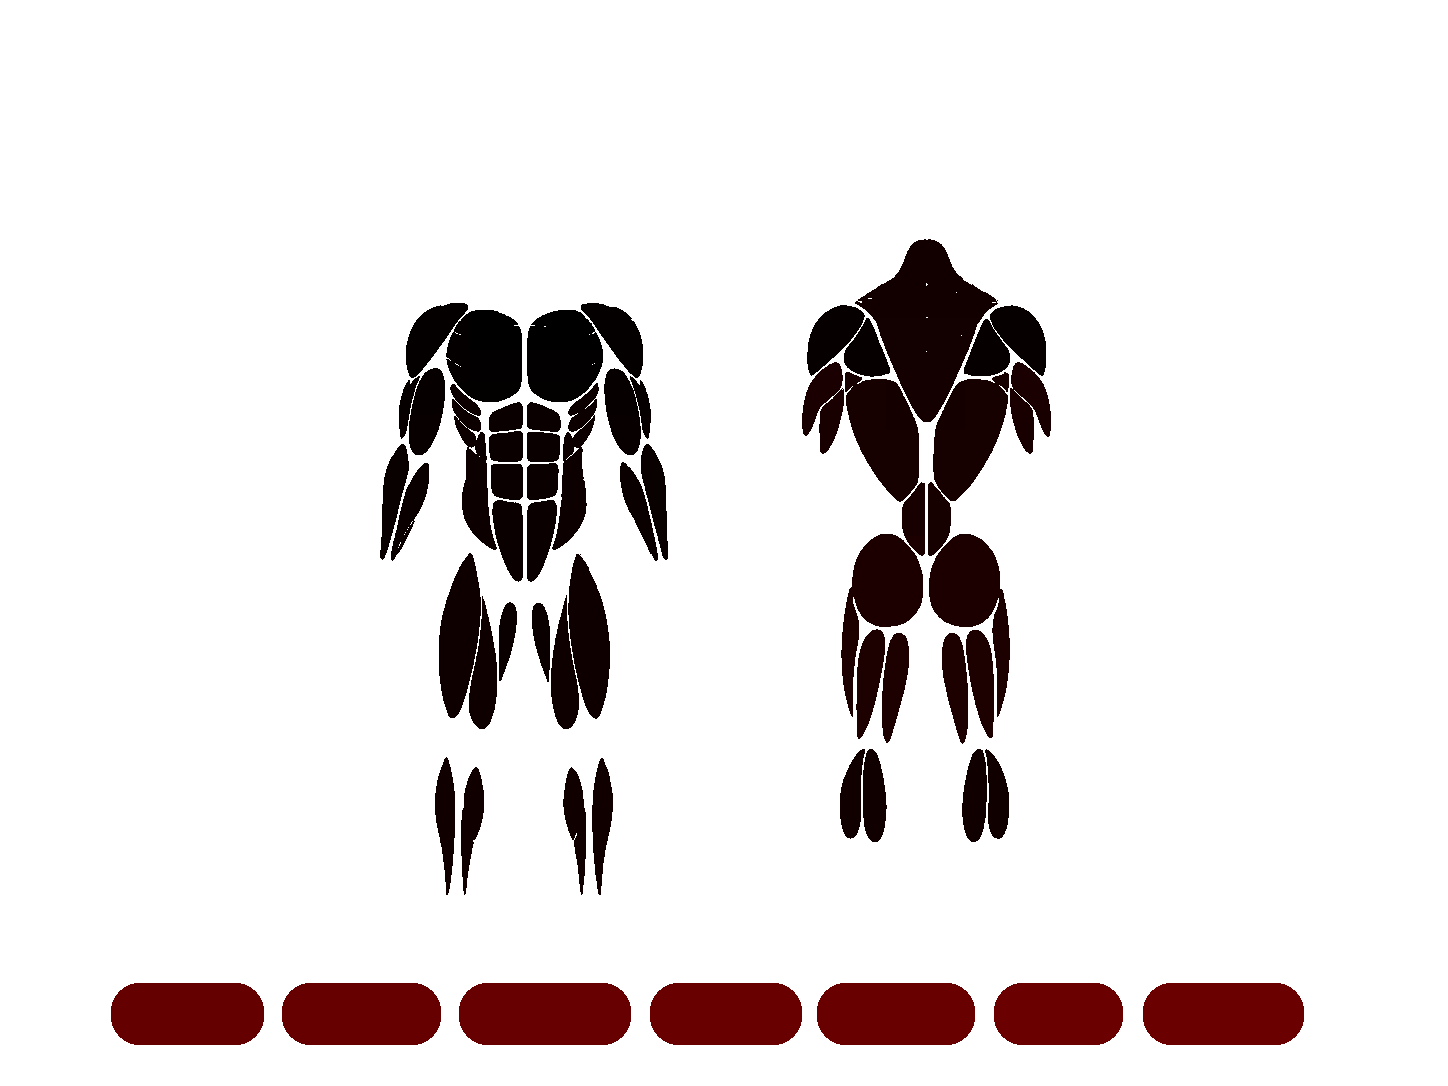
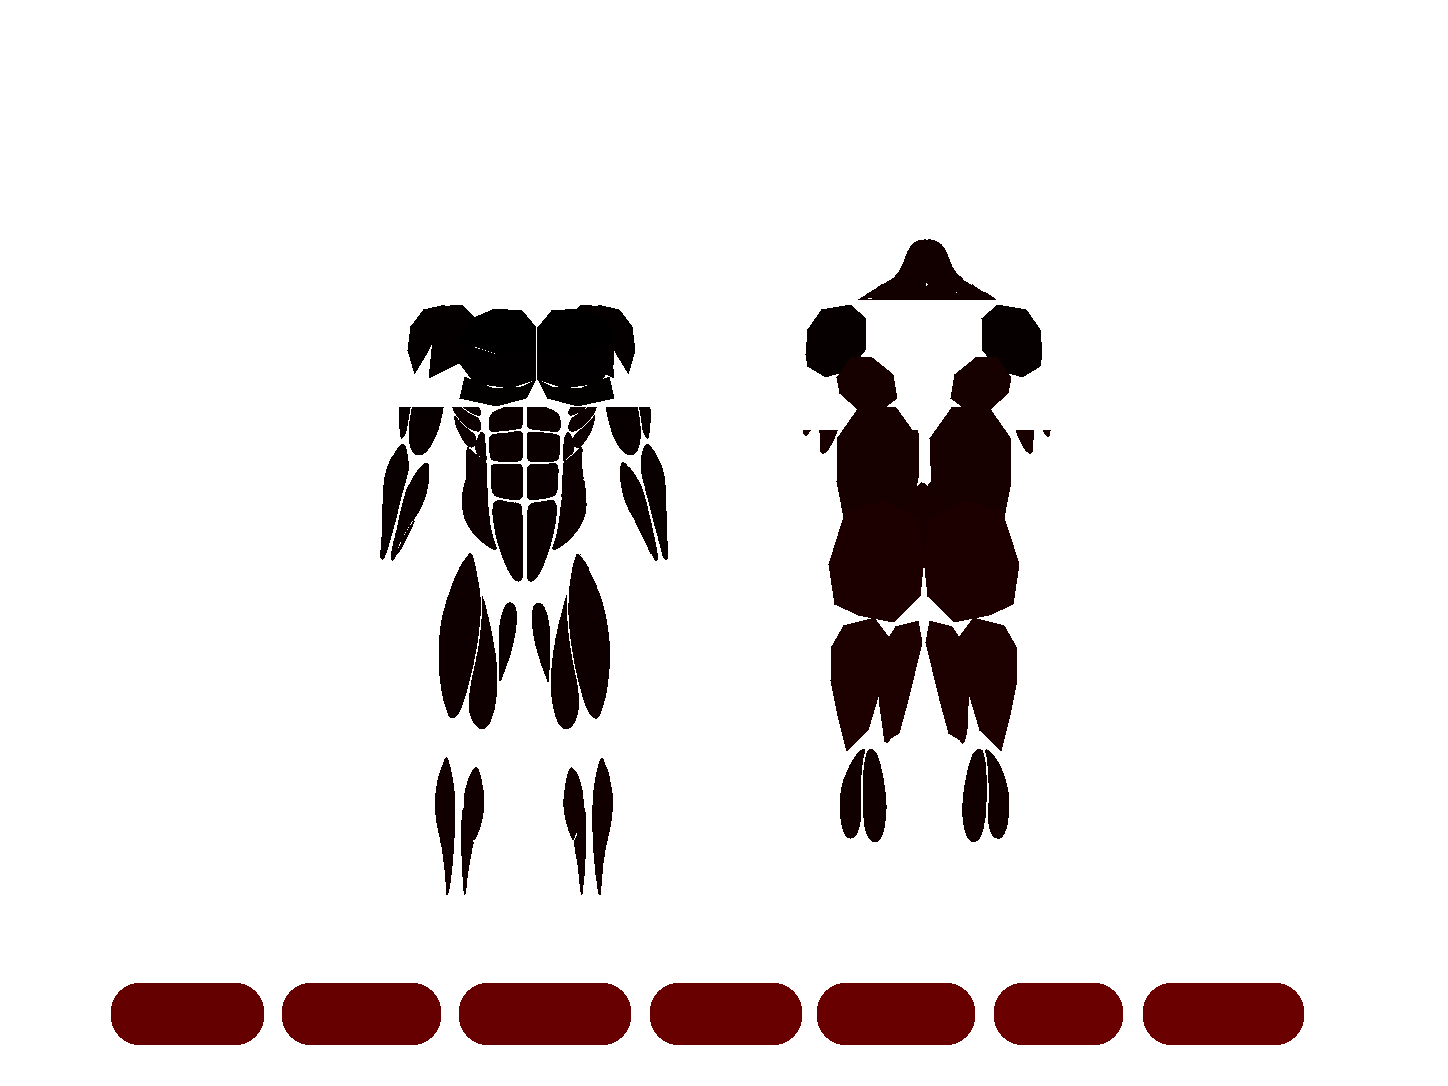
Adjust muscle map anatomy

Changed region(s): [[0.5283, 0.2735, 0.7459, 0.6989], [0.2797, 0.2735, 0.3729, 0.395], [0.404, 0.3039, 0.4662, 0.395]]

diff --git a/index.html b/index.html
@@ -5838,7 +5838,7 @@ function loadMuscleMapBaseImage() {
       muscleMapHitmap.baseReady = true;
       resolve();
     };
-    img.src = 'assets/muscle-map.png';
+    img.src = 'assets/muscle-map.png?v=2';
   });
   return muscleMapHitmap.baseLoading;
 }
@@ -5863,7 +5863,7 @@ function loadMuscleMapHitmap() {
       muscleMapHitmap.ready = true;
       resolve();
     };
-    img.src = 'assets/muscle-map-hitmap.png?v=3';
+    img.src = 'assets/muscle-map-hitmap.png?v=4';
   });
   return muscleMapHitmap.loading;
 }
